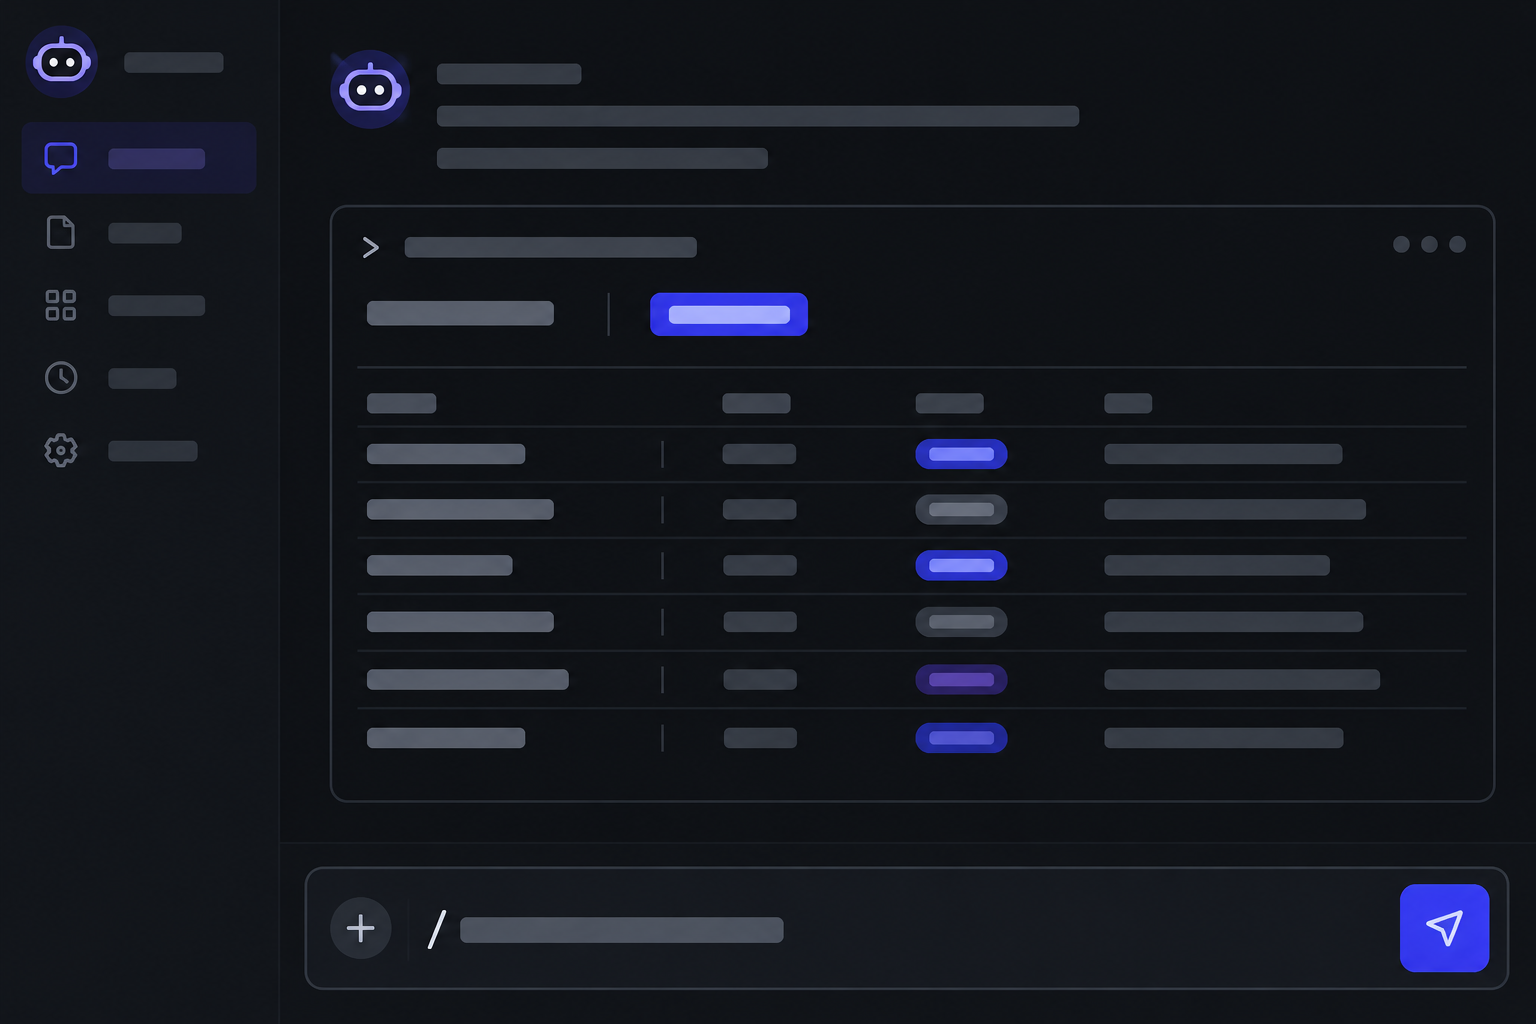
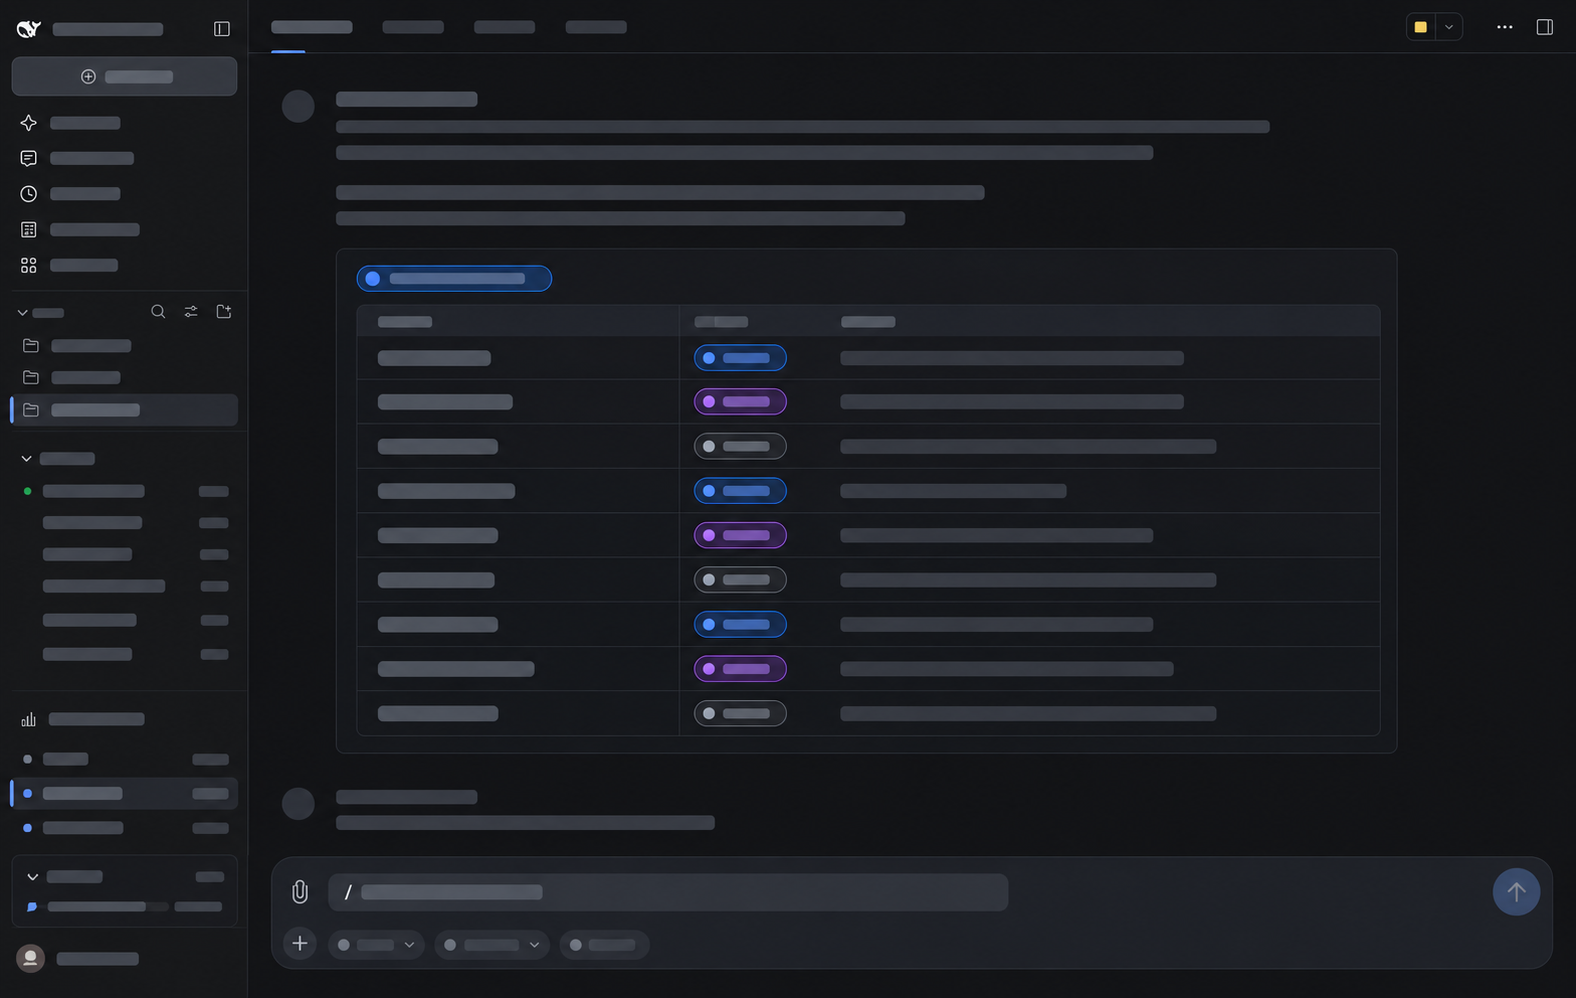
docs: 重写 README 并更新展示图
- README 按用户视角重写，115 行压缩到 89 行，命令与工具行为经 src/*.ts 核实
- 安装示例版本号修正为与 package.json 一致的 0.4.1
- 展示图替换为参考真实 DSH 界面生成的示意图

diff --git a/README.md b/README.md
@@ -2,13 +2,7 @@
 
 [![License: GPL-3.0-or-later](https://img.shields.io/badge/License-GPL--3.0--or--later-blue.svg)](./LICENSE)
 
-控制 DeepSeek Harness **原生 `openrouter`** 请求档位，不注册独立 adapter 或第二套模型目录。thinking、认证、消息、工具、附件、replay、取消、超时与重试走宿主原生调用链。
-
-## 显示名称与资源
-
-插件列表、详情页和组件行显示“OpenRouter 服务等级”及中文说明，图标为原创 SVG。显示元数据通过导出的 zh/en locale 和 `./icon` 提供，停用时也可读取，无需为显示信息启用插件。
-
-包名与 row id 仍是 `@shenjackyuanjie/dsh-openrouter-service-tier` 与 `openrouter-service-tier`。图标随本仓库发布。
+`@shenjackyuanjie/dsh-openrouter-service-tier`：控制 DeepSeek Harness **原生 `openrouter`** provider 的 service tier（请求档位）。插件不注册独立 adapter、不新增模型目录，thinking、认证、消息、工具、附件、replay、取消、超时与重试全部走宿主原生调用链；档位通过 `/openrouter-tier` 命令、`openrouter_service_tier` Agent 工具或原生设置入口修改。
 
 ## 展示
 
@@ -16,100 +10,80 @@
 
 > 上图为界面示意图，非真实运行截图，效果以实际插件输出为准。
 
-## 许可证
-
-本项目以 [GNU GPL-3.0-or-later 许可证](./LICENSE)发布，Copyright (c) 2026 shenjackyuanjie。
-
 ## 宿主要求
 
-支持宿主 `0.2.1-rc.2` 与 `0.2.1-rc.3`，每个版本都需要匹配的 `llm-pi-ai` 原生档位补丁；两套补丁随包发布，不要混用。插件不是宿主升级器；未打补丁时工具和命令明确拒绝，不会假报配置成功。更早的宿主版本不再适配。
-
-[`patches/`](./patches/) 提供该固定版本的 package-manager 补丁。实际加载独立 npm 包的宿主可在所属 pnpm 项目的 `patchedDependencies` 中配置补丁，再运行 `pnpm install` 并重启。宿主若内联该包，必须修改对应版本源码并重新构建宿主；单独 patch 一个未加载的依赖无效。禁止手改 `node_modules` 或共享 store。
+- 支持宿主 `0.2.1-rc.2` 与 `0.2.1-rc.3`，每个版本都需要匹配版本的 `llm-pi-ai` 档位补丁；补丁随包发布，不要混用。未打补丁时命令与工具会明确拒绝，不会假报配置成功。
+- 补丁登记在实际解析 `@deepseek-ai/dsh-llm-pi-ai` 的 pnpm 项目中，运行 `pnpm install` 并重启 Host：
 
 ```yaml
 patchedDependencies:
   '@deepseek-ai/dsh-llm-pi-ai@0.2.1-rc.3': /absolute/path/to/patches/@deepseek-ai__dsh-llm-pi-ai@0.2.1-rc.3.patch
 ```
 
-宿主是 `0.2.1-rc.2` 时改用同目录的 `...@0.2.1-rc.2.patch` 与对应版本键。
-
-源码补丁及构建说明见 [补丁说明](./patches/README.md)，本机验收见 [原生方案验证](./validation/native-tier.md)。
-
-## 使用
-
-先在原生模型设置启用 OpenRouter。本插件通过 `ctx.llm.listConfigurableProviders()` 动态定位其 namespace 和 profile 路径，不硬编码实例 ID，不补建 profile，不读取或修改凭据。
-
-- `/openrouter-tier`：查看原生档位。
-- `/openrouter-tier flex`：全局 flex。
-- `/openrouter-tier openai/gpt-6-luna priority`：只覆盖该模型。
-- `/openrouter-tier openai/gpt-6-luna omit`：该模型不发送 tier。
-- `/openrouter-tier omit`：全局不发送（保存为 null）。
-- `/openrouter-tier reset`：清除全局用户覆盖，恢复底层继承。
-- `/openrouter-tier openai/gpt-6-luna reset`：删除该模型的有效覆盖；最后一项删除后写空数组，屏蔽底层覆盖数组。
-
-Agent 工具名为 `openrouter_service_tier`，支持 `get`、`set`、`reset`。修改前先 `get`，携带返回的 **原生 namespace revision** 作为 `expectedRevision`；并发冲突明确失败。结果只包含档位和 revision，不投影 headers 或其他连接设置。
-
-修改影响当前 profile 所有会话的**新准备请求**；已 prepare 或进行中的请求保持原快照。插件停用只撤回命令与工具，不清空原生档位、不移除模型。
-
-### 档位语义
-
-有效优先级是 `精确模型覆盖 > 全局档位 > 不发送`。模型 `omit` 屏蔽全局档位；全局 null 不屏蔽模型显式 priority。`unset` 是恢复底层继承，可能重新得到 flex；null/omit 才是显式不发送。空数组屏蔽继承数组，清除整个数组字段则恢复底层数组。
-
-协议值为 `default`、`flex`、`priority`、`fast`、`ultrafast`。`fast` 是 priority 别名；费用与可用性以实际服务为准，不保证按请求档位计费。宿主只在原生 OpenRouter 的 Chat Completions、Responses、Anthropic Messages 请求 body 顶层设置 `service_tier`，无有效档位不加 hook，不发 inherit/omit/null。参见 [OpenRouter 文档](https://openrouter.ai/docs/guides/features/service-tiers)。
-
-模型覆盖按当前原生目录及用户配置动态校验，包括非 Chat 模型；失效覆盖不会静默当作有效配置，删除失效覆盖仍可用于修复。
-
-### 设置入口
-
-通过**原生 `llm-pi-ai` 插件设置入口**、命令或工具修改。本插件没有专用设置面板、客户端 bundle 或自己的档位 namespace，控制插件配置固定为 `{}`。
+宿主是 `0.2.1-rc.2` 时，键与文件都换成 `0.2.1-rc.2`。只登记宿主实际安装的版本（pnpm 会把没有对应依赖的补丁登记报错），不要手改 `node_modules`。补丁内容与移植说明见 [patches/README.md](./patches/README.md)。
 
 ## 安装
 
-包名：`@shenjackyuanjie/dsh-openrouter-service-tier`，registry：GitHub Packages。先按上文为宿主应用补丁。
-
-GitHub npm registry 安装公开包也需要认证，使用具备 `read:packages` 的 classic PAT，在本机终端登录（不要提交 token）：
+包发布在 GitHub Packages，安装公开包也需要认证。准备一个具备 `read:packages` 的 classic PAT，在本机终端登录（不要提交 token）：
 
 ```powershell
 npm config set '@shenjackyuanjie:registry' 'https://npm.pkg.github.com' --location=user
 npm login --scope=@shenjackyuanjie --auth-type=legacy --registry=https://npm.pkg.github.com
-dsh plugin --profile web add @shenjackyuanjie/dsh-openrouter-service-tier@0.4.0 --ignore-scripts
+dsh plugin --profile web add @shenjackyuanjie/dsh-openrouter-service-tier@0.4.1 --ignore-scripts
 ```
 
-登录时 Username 填 GitHub 用户名，Password 填 PAT。其他 scope 的依赖继续从原 npm registry 获取。参见 [GitHub npm registry 认证说明](https://docs.github.com/en/packages/working-with-a-github-packages-registry/working-with-the-npm-registry)。
+Username 填 GitHub 用户名，Password 填 PAT；其他 scope 的依赖仍从原 npm registry 获取，认证方法参见 [GitHub npm registry 说明](https://docs.github.com/en/packages/working-with-a-github-packages-registry/working-with-the-npm-registry)。首次安装后需在插件管理器启用该 bundle；安装 overlay 只插入配置为空的控制插件，不新增/禁用 provider，也不会默认把请求改为 flex。更换宿主或插件代码后重启 Host，之后的档位修改通过原生 volatile 热更新生效。
 
-首次安装需在插件管理器启用该 bundle。安装 overlay 只插入配置为空的控制插件，不新增/禁用 provider，也不默认把原生请求改为 flex。更换宿主或插件代码后重启 Host；之后档位设置通过原生 volatile 热更新生效。
+本地 tarball 安装不需要 GitHub 认证（先 `npm run build` 产出 `lib/`，再打包得到 tarball）：
 
-## 本地构建与打包
+```powershell
+dsh plugin --profile web add D:\path\shenjackyuanjie-dsh-openrouter-service-tier-0.4.1.tgz --ignore-scripts
+```
 
-要求 Node `>=22.19.0`，开发使用 pnpm 11。开发依赖与宿主同为 `0.2.1-rc.3`，并通过本仓库固定补丁进行离线测试；这不改变用户宿主。
+## 使用
+
+先在原生模型设置中启用并配置 OpenRouter。插件通过 `ctx.llm.listConfigurableProviders()` 动态定位原生 namespace 与 profile 路径，不硬编码实例 ID、不补建 profile、不读取或修改凭据。
+
+`/openrouter-tier` 命令：
+
+- `/openrouter-tier`（无参数，或 `list` / `help`）：查看当前全局档位与按模型覆盖
+- `/openrouter-tier flex`：设置全局档位，可用 `default` / `flex` / `priority` / `fast` / `ultrafast` / `omit`
+- `/openrouter-tier openai/gpt-6-luna priority`：只覆盖该模型
+- `/openrouter-tier openai/gpt-6-luna omit`：该模型不发送 `service_tier`
+- `/openrouter-tier reset`：清除全局覆盖，恢复底层继承
+- `/openrouter-tier openai/gpt-6-luna reset`：删除该模型的有效覆盖（写空数组，屏蔽底层覆盖数组）
+
+`openrouter_service_tier` Agent 工具：`get` 读取当前档位；`set` 写入（`tier` 取上述档位值，可加 `model` 只覆盖某模型）；`reset` 恢复全局继承或删除模型覆盖。`set` / `reset` 必须带 `expectedRevision`，即最近一次 `get` 返回的原生 namespace revision，用于防止并发覆盖，冲突时明确失败。工具返回档位、revision 与适用说明，不投影 headers 或其他连接设置。
+
+档位修改影响当前 profile 所有会话的新准备请求；已 prepare 或进行中的请求保持原快照。插件停用只撤回命令与工具，不清空原生档位、不移除模型。
+
+### 档位语义
+
+有效优先级：`精确模型覆盖 > 全局档位 > 不发送`。
+
+- 模型 `omit` 屏蔽全局档位；全局 null（`omit`）不屏蔽模型的显式 priority。
+- `reset` / `inherit` 指恢复底层继承，可能重新得到 flex；`omit` / null 才是显式不发送。
+- 空数组屏蔽底层覆盖数组；清除整个 `modelServiceTiers` 字段则恢复底层数组。
+
+协议值为 `default`、`flex`、`priority`、`fast`、`ultrafast`，`fast` 是 `priority` 的别名；费用与可用性以实际服务为准。宿主只在原生 OpenRouter 的 Chat Completions、Responses、Anthropic Messages 请求 body 顶层写 `service_tier`，无有效档位时不加 hook，也从不发送 inherit / omit / null。参见 [OpenRouter service tiers 文档](https://openrouter.ai/docs/guides/features/service-tiers)。
+
+新增或修改模型覆盖时，模型必须在当前原生 OpenRouter 目录中（含非 Chat 模型）；失效覆盖不会被静默当作有效配置，但删除失效覆盖仍可用于修复。
+
+### 设置入口
+
+档位通过**原生 `llm-pi-ai` 插件设置入口**、`/openrouter-tier` 命令或 `openrouter_service_tier` 工具修改。本插件没有专用设置面板、客户端 bundle 或自己的档位 namespace，控制插件配置固定为 `{}`。
+
+## 开发与验证
+
+要求 Node `>=22.19.0`，开发使用 pnpm 11；开发依赖与离线测试固定 `0.2.1-rc.3` 及对应补丁，不改变用户宿主。
 
 ```powershell
 pnpm install --frozen-lockfile --ignore-scripts
 npm run check
-npm pack --ignore-scripts --pack-destination .cache
 ```
 
-`npm run check` 依次执行 `format:check`、类型检查与离线测试；改写格式执行 `npm run format`。项目用 Prettier 统一代码与文档风格，构建产物 `lib/` 不纳入格式化。
+`npm run check` 依次执行 `format:check`（Prettier 格式检查）、`typecheck`（类型检查）与离线测试（构建后 `node --test`，覆盖 Loader / LLM / Settings 回归与 zh/en locale、图标等显示资源）。改写格式运行 `npm run format`。真实宿主与请求的验收记录见 [validation/native-tier.md](./validation/native-tier.md)。
 
-构建产生 `lib/`，安装前必须构建。将 tarball 安装到原 profile，例如：
+## 许可证
 
-```powershell
-dsh plugin --profile web add D:\path\shenjackyuanjie-dsh-openrouter-service-tier-0.4.0.tgz --ignore-scripts
-```
-
-本地 tarball 安装不需要 GitHub registry 认证。
-
-## 发布
-
-包通过 `publishConfig` 限定发布到 GitHub Packages，并关联本仓库。使用具备 `write:packages` 的 classic PAT 认证后：
-
-```powershell
-npm run check
-npm publish
-```
-
-`prepack` 自动构建 `lib/`。首次发布后，在 GitHub Package settings 中确认包可见性为 Public；包的可见性不自动继承公开仓库。后续发布必须先更新版本号。
-
-## 验证
-
-`npm run check` 执行格式检查、类型检查、离线 Loader、LLM、Settings 回归，以及 [显示资源测试](./test/metadata.test.mjs)（zh/en locale 和图标导出、资源路径与大小、发布白名单及共享包身份）。隔离组合验证脚本已随旧宿主版本支持一并移除，当前只针对 `0.2.1-rc.3` 验证。宿主相关测试、keyless snapshot、启动和真实请求的实际执行结果记录在 [原生方案验证](./validation/native-tier.md)。
+本项目以 [GNU GPL-3.0-or-later 许可证](./LICENSE)发布，Copyright (c) 2026 shenjackyuanjie。
